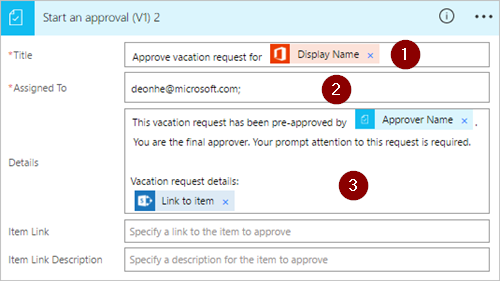
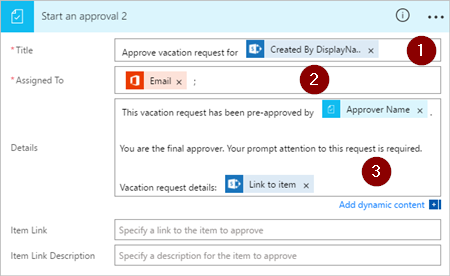
updates from merwan review

diff --git a/articles/sequential-test-doc-all-together.md b/articles/sequential-test-doc-all-together.md
@@ -96,25 +96,29 @@ Make note of the name and URL of the SharePoint Online list. We use these items 
 
    ![sharepoint info](./media/sequential-modern-approvals/select-sharepoint-site-info.png)
 
-## Add a profile action
+## Get the manager for the person who created the vacation request
 
 1. Select **New step**, and then select **Add an action**.
 
      ![new step](../includes/media/modern-approvals/select-sharepoint-add-action.png)
 
-1. Enter **profile** into the **Choose an action** search box.
+1. Enter **get manager** into the **Choose an action** search box.
 
-     ![search for profile](../includes/media/modern-approvals/search-for-profile.png)
+1. Find, and then select the **Office 365 Users - Get manager** action.
 
-1. Find, and then select the **Office 365 Users - Get my profile** action.
+     ![select office users](../includes/media/modern-approvals/add-get-manager-action.png)
 
-     ![select office users](../includes/media/modern-approvals/select-my-profile.png)
+1. Insert the **Created By Email** token into the **User** box on the **Get manager** card.
+
+   This action gets the manger for the person who created the vacation request in SharePoint.
+
+   ![get manager config](../includes/media/modern-approvals/get-manager-card.png)
 
 1. Provide a name for your flow, and then select **Create flow** to save the work we've done so far.
 
    ![save flow](./media/sequential-modern-approvals/save.png)
 
->[AZURE.NOTE] Select **Update flow** from the top of the screen periodically so that you don't lose your work due to Internet connectivity or other unplanned issues.
+>[AZURE.NOTE] Select **Update flow** from the top of the screen periodically to save the changes to your flow.
 
    ![select update action](./media/sequential-modern-approvals/update.png)
 
@@ -128,7 +132,7 @@ After you save your flow, select **Edit flow** from the top of the screen, and t
 
 1. Select **New step**, and then select **Add an action**.
 
-     ![new step](../includes/media/modern-approvals/select-profile-add-action.png)
+     ![new step](../includes/media/modern-approvals/select-sharepoint-add-action.png)
 
 1. Enter **approval** into the **Choose an action** search box.
 
@@ -144,7 +148,9 @@ After you save your flow, select **Edit flow** from the top of the screen, and t
 
      ![configure the approval](../includes/media/modern-approvals/provide-approval-config-info.png)
 
->[AZURE.NOTE]This approval action sends vacation requests to the pre-approver's email address that's entered into the **Assigned To** box.
+This approval action sends vacation requests to the pre-approver's email address that's entered into the **Assigned To** box.
+
+Note: Here, I've used the **Email** token from **Get manager** in the **Assigned To** box.
 
 ## Add a condition
 
@@ -214,9 +220,9 @@ Follow these steps to send an email when vacation requests are pre-approved:
 
 ## Add the final approval action
 
-1. Use the [add an approval action for pre-approvals](modern-approvals-sequential.md/#Add-an-approval-action-for-pre-approvals) steps we did earlier to add, and then configure another **Start an approval** action. This action sends an email to the final approver.
+1. Use the [add an approval action for pre-approvals](modern-approvals-sequential.md/#Add-an-approval-action-for-pre-approvals) steps we did earlier to add, and then configure another **Start an approval** action. This action sends an email request for final approval.
 
-Note: Be sure to use an email address (in the **Assigned To** box) that's different from the one you used earlier when you configured the pre-approval action.
+Note: Here, I've used a static email address in the **Assigned To** box. However, you may want to use the email address of the pre-approver's manager as the final approver. If your organization uses Office 365, you can use the [Office 365 Users](https://flow.microsoft.com/services/shared_office365users/office-365-users/) service to dynamically get the email address for person's manager while the flow runs.
 
 1. When you're done, the card should resemble this image:
 
@@ -242,32 +248,6 @@ Note: Be sure to use an email address (in the **Assigned To** box) that's differ
 
      ![update item configuration](./media/sequential-modern-approvals/configure-update-item-approved.png)
 
-## Send email with final rejection
-
-1. Use the steps from [Send email with pre-approval rejection](modern-approvals-sequential.md/#Send-email-with-pre-approval-rejection) to add, and then configure an action that sends an email when the vacation request is rejected.
-
-1. When you're finished, the card should resemble this image:
-
-   ![configuration for rejected requests](./media/sequential-modern-approvals/configure-rejected-email.png)
-
-## Update SharePoint with final rejection
-
-1. Select **Add an action**.
-
-     ![add action](../includes/media/modern-approvals/add-update-item-action.png)
-
-1. Enter **update item** into the search box on the **Choose an action** card.
-
-     ![search for update action](../includes/media/modern-approvals/search-update-item-rejected.png)
-
-1. Select the **SharePoint - Update item** action.
-
-     ![select update item](../includes/media/modern-approvals/select-update-item-no.png)
-
-1. Configure the card to suit your needs.
-
-   ![update item card](./media/sequential-modern-approvals/update-sharepoint-with-rejection.png)
-
 ## Send email with pre-approval rejection
 
 Follow these steps to configure the email template that is used if the vacation request is rejected by the pre-approver:
@@ -290,11 +270,37 @@ Follow these steps to configure the email template that is used if the vacation 
 
 ## Update SharePoint with pre-approval rejection
 
+1. Select **Add an action**.
+
+     ![add action](../includes/media/modern-approvals/add-update-item-action.png)
+
+1. Enter **update item** into the search box on the **Choose an action** card.
+
+     ![search for update action](../includes/media/modern-approvals/search-update-item-rejected.png)
+
+1. Select the **SharePoint - Update item** action.
+
+     ![select update item](../includes/media/modern-approvals/select-update-item-no.png)
+
+1. Configure the card to suit your needs.
+
+   ![update sharepoint for rejected requests](./media/sequential-modern-approvals/update-sharepoint-with-rejection.png)
+
+## Send email with final rejection
+
+1. Use the steps from [Send email with pre-approval rejection](modern-approvals-sequential.md/#Send-email-with-pre-approval-rejection) to add, and then configure an action that sends an email when the vacation request is rejected by the final approver.
+
+1. When you're finished, the card should resemble this image:
+
+   ![configuration for rejected requests](./media/sequential-modern-approvals/configure-rejected-email.png)
+
+## Update SharePoint with final rejection
+
 1. Use the steps from [Update SharePoint with final rejection](modern-approvals-sequential.md/#Update-SharePoint-with-final-rejection) to add, and then configure an action that updates SharePoint if the final approver rejects the vacation request.
 
 1. When you're finished, the card should resemble this image:
 
-   ![update sharepoint for rejected requests](./media/sequential-modern-approvals/update-sharepoint-with-rejection.png)
+   ![update item card](./media/sequential-modern-approvals/update-sharepoint-with-rejection.png)
 
 1. Select **Update flow** to save the work we've done.
 

diff --git a/articles/modern-approvals-sequential.md b/articles/modern-approvals-sequential.md
@@ -70,13 +70,15 @@ Make note of the name and URL of the SharePoint Online list. We use these items 
 
    ![sharepoint info](./media/sequential-modern-approvals/select-sharepoint-site-info.png)
 
-## Add a profile action
+## Get the manager for the person who created the vacation request
 
-[!INCLUDE [INCLUDEDCONTENT](../includes/add-get-profile-action.md)]
+[!INCLUDE [INCLUDEDCONTENT](../includes/add-get-manager-action.md)]
+
+1. Provide a name for your flow, and then select **Create flow** to save the work we've done so far.
 
    ![save flow](./media/sequential-modern-approvals/save.png)
 
->[AZURE.NOTE] Select **Update flow** from the top of the screen periodically so that you don't lose your work due to Internet connectivity or other unplanned issues.
+>[AZURE.NOTE] Select **Update flow** from the top of the screen periodically to save the changes to your flow.
 
    ![select update action](./media/sequential-modern-approvals/update.png)
 
@@ -86,7 +88,9 @@ After you save your flow, select **Edit flow** from the top of the screen, and t
 
 [!INCLUDE [INCLUDEDCONTENT](../includes/add-an-approval-action.md)]
 
->[AZURE.NOTE]This approval action sends vacation requests to the pre-approver's email address that's entered into the **Assigned To** box.
+This approval action sends vacation requests to the pre-approver's email address that's entered into the **Assigned To** box.
+
+Note: Here, I've used a static email address in the **Assigned To** box. However, you may want to use the email address of the employee's manager as the pre-approver. If your organization uses Office 365, you can use the [Office 365 Users](https://flow.microsoft.com/services/shared_office365users/office-365-users/) service to dynamically get the email address for person's manager while the flow runs.
 
 ## Add a condition
 
@@ -108,11 +112,17 @@ Follow these steps to send an email when vacation requests are pre-approved:
 
    [update item configuration](./media/sequential-modern-approvals/configure-update-item.png)
 
+## Get the pre-approver's manager
+
+1. Use the [Get the manager for the person who created the vacation request](modern-approvals-sequential.md/#Get-the-manager-for-the-person-who-created-the-vacation-request) steps we did earlier to add, and then configure another **Get manager** action. This time we get the pre-approver's manager.
+
+1. The **Get manager 2** card should look like this when you are finished. Be sure to use the **Email** token from the **Get manager** category on the **Add dynamic content from the apps and services used in this flow.** card.
+
+   [get pre-approver's manager](./media/sequential-modern-approvals/get-pre-approver-manager.png)
+
 ## Add the final approval action
 
-1. Use the [add an approval action for pre-approvals](modern-approvals-sequential.md/#Add-an-approval-action-for-pre-approvals) steps we did earlier to add, and then configure another **Start an approval** action. This action sends an email to the final approver.
-
-Note: Be sure to use an email address (in the **Assigned To** box) that's different from the one you used earlier when you configured the pre-approval action.
+1. Use the [add an approval action for pre-approvals](modern-approvals-sequential.md/#Add-an-approval-action-for-pre-approvals) steps we did earlier to add, and then configure another **Start an approval** action. This action sends an email request for final approval.
 
 1. When you're done, the card should resemble this image:
 
@@ -138,20 +148,6 @@ Note: Be sure to use an email address (in the **Assigned To** box) that's differ
 
      ![update item configuration](./media/sequential-modern-approvals/configure-update-item-approved.png)
 
-## Send email with final rejection
-
-1. Use the steps from [Send email with pre-approval rejection](modern-approvals-sequential.md/#Send-email-with-pre-approval-rejection) to add, and then configure an action that sends an email when the vacation request is rejected.
-
-1. When you're finished, the card should resemble this image:
-
-   ![configuration for rejected requests](./media/sequential-modern-approvals/configure-rejected-email.png)
-
-## Update SharePoint with final rejection
-
-[!INCLUDE [INCLUDEDCONTENT](../includes/add-action-to-update-sharepoint-with-rejection.md)]
-
-   ![update item card](./media/sequential-modern-approvals/update-sharepoint-with-rejection.png)
-
 ## Send email with pre-approval rejection
 
 Follow these steps to configure the email template that is used if the vacation request is rejected by the pre-approver:
@@ -162,11 +158,25 @@ Follow these steps to configure the email template that is used if the vacation 
 
 ## Update SharePoint with pre-approval rejection
 
+[!INCLUDE [INCLUDEDCONTENT](../includes/add-action-to-update-sharepoint-with-rejection.md)]
+
+   ![update sharepoint for rejected requests](./media/sequential-modern-approvals/update-sharepoint-with-rejection.png)
+
+## Send email with final rejection
+
+1. Use the steps from [Send email with pre-approval rejection](modern-approvals-sequential.md/#Send-email-with-pre-approval-rejection) to add, and then configure an action that sends an email when the vacation request is rejected by the final approver.
+
+1. When you're finished, the card should resemble this image:
+
+   ![configuration for rejected requests](./media/sequential-modern-approvals/configure-rejected-email.png)
+
+## Update SharePoint with final rejection
+
 1. Use the steps from [Update SharePoint with final rejection](modern-approvals-sequential.md/#Update-SharePoint-with-final-rejection) to add, and then configure an action that updates SharePoint if the final approver rejects the vacation request.
 
 1. When you're finished, the card should resemble this image:
 
-   ![update sharepoint for rejected requests](./media/sequential-modern-approvals/update-sharepoint-with-rejection.png)
+   ![update item card](./media/sequential-modern-approvals/update-sharepoint-with-rejection.png)
 
 1. Select **Update flow** to save the work we've done.
 

diff --git a/includes/add-get-manager-action.md b/includes/add-get-manager-action.md
@@ -1,0 +1,15 @@
+1. Select **New step**, and then select **Add an action**.
+
+     ![new step](../includes/media/modern-approvals/select-sharepoint-add-action.png)
+
+1. Enter **get manager** into the **Choose an action** search box.
+
+1. Find, and then select the **Office 365 Users - Get manager** action.
+
+     ![select office users](../includes/media/modern-approvals/add-get-manager-action.png)
+
+1. Insert the **Created By Email** token into the **User** box on the **Get manager** card.
+
+   This action gets the manger for the person who created the vacation request in SharePoint.
+
+   ![get manager config](../includes/media/modern-approvals/get-manager-card.png)

diff --git a/includes/add-get-profile-action.md b/includes/add-get-profile-action.md
@@ -2,11 +2,11 @@
 
      ![new step](../includes/media/modern-approvals/select-sharepoint-add-action.png)
 
-1. Enter **profile** into the **Choose an action** search box.
+1. Enter **get manager** into the **Choose an action** search box.
 
      ![search for profile](../includes/media/modern-approvals/search-for-profile.png)
 
-1. Find, and then select the **Office 365 Users - Get my profile** action.
+1. Find, and then select the **Office 365 Users - Get manager** action.
 
      ![select office users](../includes/media/modern-approvals/select-my-profile.png)
 

diff --git a/includes/approve-request-from-different-locations.md b/includes/approve-request-from-different-locations.md
@@ -40,7 +40,7 @@ To approve a request:
 
      ![select confirm](../includes/media/modern-approvals/mobile-approval.png)
 
-1. The success page shows; this page indicates that your approval has been recorded.
+1. The success page shows, indicating that your approval has been recorded.
 
      ![success page](../includes/media/modern-approvals/mobile-approval-confirmation.png)
 

diff --git a/includes/add-an-approval-action.md b/includes/add-an-approval-action.md
@@ -4,7 +4,7 @@
 
 1. Select **New step**, and then select **Add an action**.
 
-     ![new step](../includes/media/modern-approvals/select-profile-add-action.png)
+     ![new step](../includes/media/modern-approvals/select-sharepoint-add-action.png)
 
 1. Enter **approval** into the **Choose an action** search box.
 
